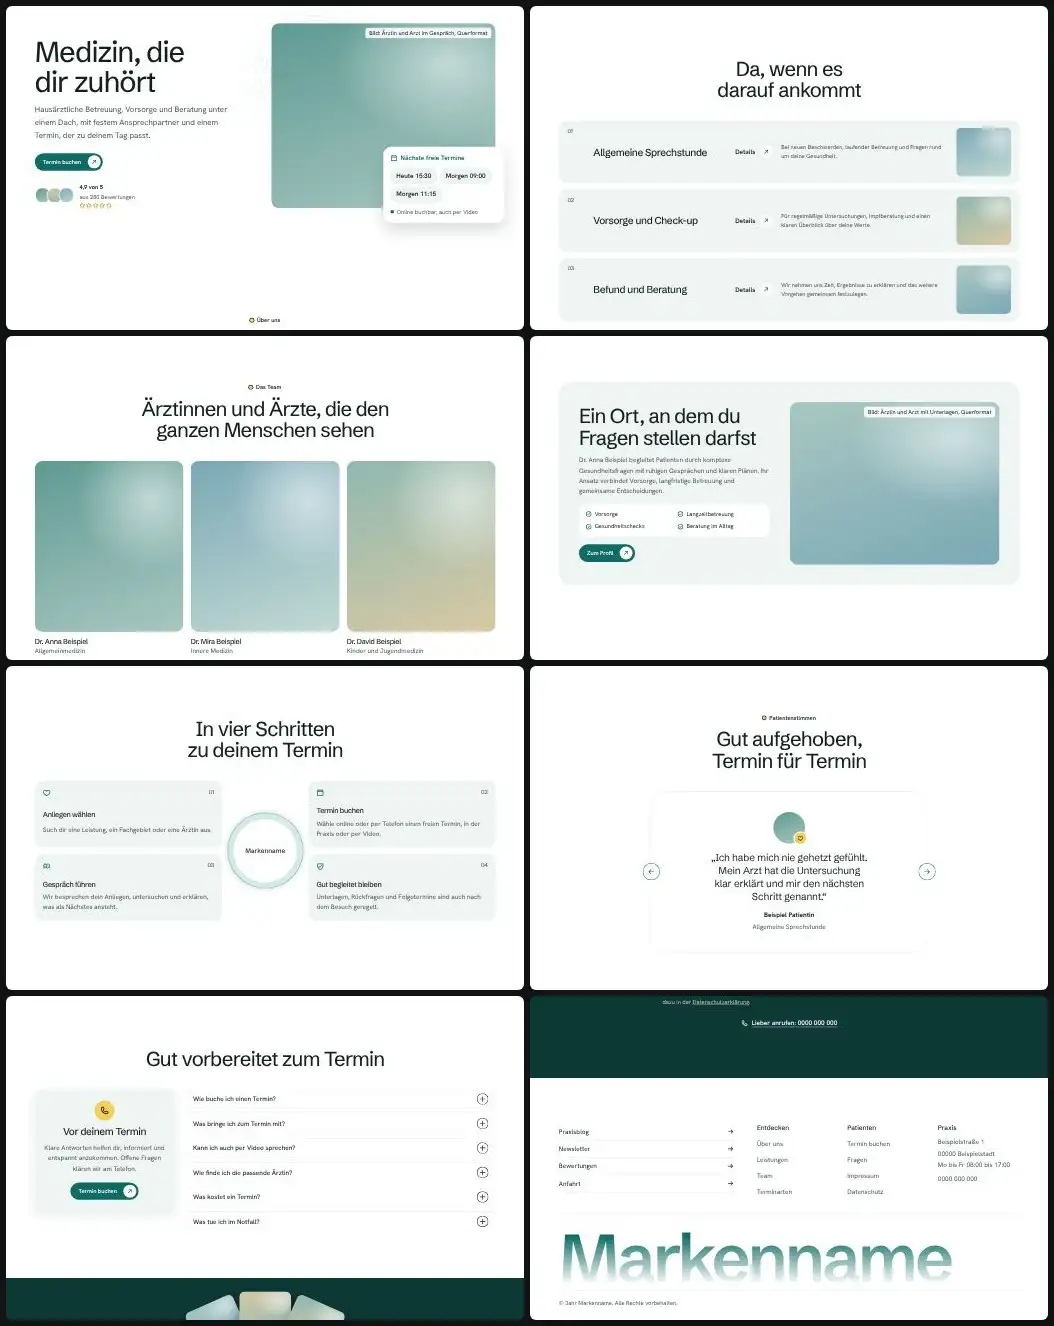
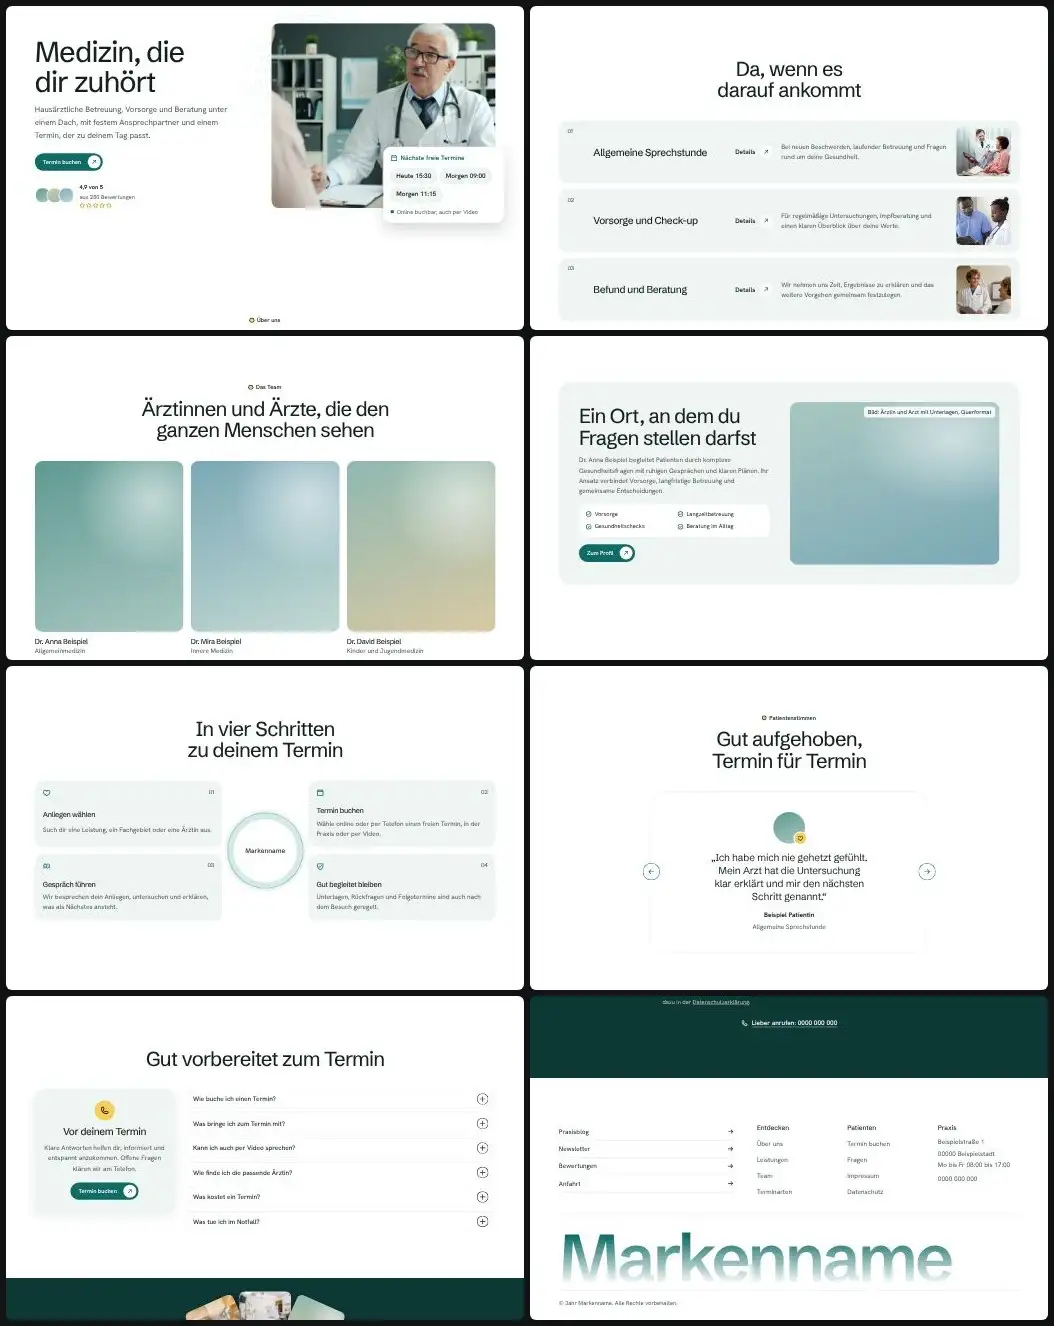
Bibliothek t60: Beispielfotos (Unsplash) eingebaut, Vorschaubilder neu erzeugt
Claude-Session: https://claude.ai/code/session_01DoGuL1bwF3ewggMgZ4Cpvd

diff --git a/skills/webdesign-conversion/assets/vorlagen/bibliothek/t60/index.html b/skills/webdesign-conversion/assets/vorlagen/bibliothek/t60/index.html
@@ -76,7 +76,7 @@
       </div>
       <div class="held__buehne" data-zeig="skala">
         <div class="held__ringe" aria-hidden="true"></div>
-        <div class="bild held__bild bild--a" data-platzhalter="Bild: Ärztin und Arzt im Gespräch, Querformat" role="img" aria-label="Platzhalter für ein Foto von zwei Ärzten im Gespräch"></div>
+        <div class="bild held__bild bild--a"><img src="bilder/praxis-arzt-gespraech.webp" width="1600" height="900" alt="Ein Arzt im Gespräch mit einer Patientin am Schreibtisch" loading="lazy" decoding="async"></div>
         <aside class="terminkarte" aria-label="Nächste freie Termine" data-beispiel>
           <p class="terminkarte__titel"><svg width="20" height="20" aria-hidden="true" focusable="false"><use href="#i-calendar-blank"/></svg>Nächste freie Termine</p>
           <ul class="terminkarte__zeiten">
@@ -99,7 +99,7 @@
     </div>
     <div class="buehne" data-fortschritt>
       <div class="buehne__haftet">
-        <div class="bild buehne__bild bild--b" data-platzhalter="Bild: Gespräch im Behandlungszimmer, Querformat" role="img" aria-label="Platzhalter für ein Foto aus einem Gespräch im Behandlungszimmer"></div>
+        <div class="bild buehne__bild bild--b"><img src="bilder/praxis-sprechstunde-sofa.webp" width="1000" height="563" alt="Zwei Frauen im Gespräch auf einem hellen Sofa" loading="lazy" decoding="async"></div>
         <a class="knopf knopf--mit-pfeil buehne__knopf" href="#team"><span>Mehr über uns</span><span class="pfeilscheibe" aria-hidden="true"><svg width="18" height="18" focusable="false"><use href="#i-arrow-up-right"/></svg></span></a>
       </div>
     </div>
@@ -118,7 +118,7 @@
             <h3 class="zeile__titel">Allgemeine Sprechstunde</h3>
             <a class="zeile__mehr" href="#termin"><span>Details</span><span class="pfeilscheibe pfeilscheibe--hell" aria-hidden="true"><svg width="18" height="18" focusable="false"><use href="#i-arrow-up-right"/></svg></span></a>
             <p class="zeile__text">Bei neuen Beschwerden, laufender Betreuung und Fragen rund um deine Gesundheit.</p>
-            <div class="bild zeile__bild bild--c" data-platzhalter="Bild: Sprechstunde" role="img" aria-label="Platzhalter für ein Foto aus der Sprechstunde"></div>
+            <div class="bild zeile__bild bild--c"><img src="bilder/praxis-arzt-bett.webp" width="1000" height="667" alt="Ein Arzt spricht mit einer Patientin am Krankenbett" loading="lazy" decoding="async"></div>
           </article>
         </li>
         <li data-zeig>
@@ -127,7 +127,7 @@
             <h3 class="zeile__titel">Vorsorge und Check-up</h3>
             <a class="zeile__mehr" href="#termin"><span>Details</span><span class="pfeilscheibe pfeilscheibe--hell" aria-hidden="true"><svg width="18" height="18" focusable="false"><use href="#i-arrow-up-right"/></svg></span></a>
             <p class="zeile__text">Für regelmäßige Untersuchungen, Impfberatung und einen klaren Überblick über deine Werte.</p>
-            <div class="bild zeile__bild bild--d" data-platzhalter="Bild: Untersuchung" role="img" aria-label="Platzhalter für ein Foto von einer Untersuchung"></div>
+            <div class="bild zeile__bild bild--d"><img src="bilder/praxis-team-tablet.webp" width="1000" height="667" alt="Zwei Fachkräfte im Kittel schauen gemeinsam auf ein Tablet" loading="lazy" decoding="async"></div>
           </article>
         </li>
         <li data-zeig>
@@ -136,7 +136,7 @@
             <h3 class="zeile__titel">Befund und Beratung</h3>
             <a class="zeile__mehr" href="#termin"><span>Details</span><span class="pfeilscheibe pfeilscheibe--hell" aria-hidden="true"><svg width="18" height="18" focusable="false"><use href="#i-arrow-up-right"/></svg></span></a>
             <p class="zeile__text">Wir nehmen uns Zeit, Ergebnisse zu erklären und das weitere Vorgehen gemeinsam festzulegen.</p>
-            <div class="bild zeile__bild bild--e" data-platzhalter="Bild: Befundgespräch" role="img" aria-label="Platzhalter für ein Foto von einem Befundgespräch"></div>
+            <div class="bild zeile__bild bild--e"><img src="bilder/praxis-aerztin-patientin.webp" width="1000" height="652" alt="Eine Ärztin im weißen Kittel lächelt im Gespräch mit einer Patientin" loading="lazy" decoding="async"></div>
           </article>
         </li>
       </ul>
@@ -189,7 +189,7 @@
         <h2 id="h-spot" data-zeig>Fachwissen mit menschlicher Seite</h2>
       </header>
       <div class="spot__raster">
-        <div class="bild spot__bild bild--b" data-zeig="links" data-platzhalter="Bild: Team bespricht einen Fall, Querformat" role="img" aria-label="Platzhalter für ein Foto vom Praxisteam"></div>
+        <div class="bild spot__bild bild--b" data-zeig="links"><img src="bilder/praxis-aerzte-tablet.webp" width="1000" height="563" alt="Ein Ärztepaar bespricht einen Fall an einem Tablet" loading="lazy" decoding="async"></div>
         <div class="spot__text" data-staffel>
           <p data-zeig>Unsere Abläufe sind darauf ausgelegt, Verwirrung zu vermeiden, Absprachen zu bündeln und dir Sicherheit bei Terminen und Rezepten zu geben.</p>
           <ul class="haken" data-zeig>
@@ -252,7 +252,7 @@
         </div>
         <p data-zeig>Praxis und Rezeption arbeiten so zusammen, dass du nicht zwischen Stellen vermitteln musst. Das spart Wege, Wartezeit und Rückfragen.</p>
       </div>
-      <div class="bild ort__bild bild--c" data-platzhalter="Bild: Rezeption und Wartebereich, Querformat" role="img" aria-label="Platzhalter für ein Foto vom Empfangsbereich der Praxis" data-zeig="skala"><div class="ort__tiefe" data-parallax="0.07" aria-hidden="true"></div></div>
+      <div class="bild ort__bild bild--c" data-zeig="skala"><img src="bilder/praxis-rezeption.webp" width="1000" height="667" alt="Empfangstheke mit Barhockern in einem ruhigen Praxisraum" loading="lazy" decoding="async"><div class="ort__tiefe" data-parallax="0.07" aria-hidden="true"></div></div>
       <p class="mitte mitte--knopf"><a class="knopf knopf--dunkel knopf--mit-pfeil" href="#ablauf"><span>Ablauf ansehen</span><span class="pfeilscheibe pfeilscheibe--hell" aria-hidden="true"><svg width="18" height="18" focusable="false"><use href="#i-arrow-up-right"/></svg></span></a></p>
     </div>
   </section>
@@ -369,10 +369,10 @@
   <!-- 13. Termin: Fächer aus gekippten Bildkarten, Rückrufformular -->
   <section class="termin" id="termin" aria-labelledby="h-termin">
     <div class="termin__fach" data-zeig aria-hidden="true">
-      <div class="bild bild--a" data-platzhalter="Bild 1"></div>
-      <div class="bild bild--c" data-platzhalter="Bild 2"></div>
-      <div class="bild bild--e" data-platzhalter="Bild 3"></div>
-      <div class="bild bild--b" data-platzhalter="Bild 4"></div>
+      <div class="bild bild--a"><img src="bilder/praxis-heller-raum.webp" width="1000" height="667" alt="Heller Raum mit Sonnenlicht und Sitzmöbeln" loading="lazy" decoding="async"></div>
+      <div class="bild bild--c"><img src="bilder/praxis-wartebereich-gelb.webp" width="1000" height="667" alt="Wartebereich mit gelbem Sofa und Schreibtisch im Hintergrund" loading="lazy" decoding="async"></div>
+      <div class="bild bild--e"><img src="bilder/praxis-empfang-holz.webp" width="1000" height="667" alt="Empfangsbereich mit Holzverkleidung und Theke" loading="lazy" decoding="async"></div>
+      <div class="bild bild--b"><img src="bilder/praxis-behandlungsraum.webp" width="1000" height="667" alt="Behandlungsraum mit Liege und medizinischen Geräten" loading="lazy" decoding="async"></div>
       <div class="bild bild--d" data-platzhalter="Bild 5"></div>
       <div class="bild bild--a" data-platzhalter="Bild 6"></div>
       <div class="bild bild--c" data-platzhalter="Bild 7"></div>

diff --git a/skills/webdesign-conversion/assets/vorlagen/bibliothek/t60/BILDER.md b/skills/webdesign-conversion/assets/vorlagen/bibliothek/t60/BILDER.md
@@ -1,0 +1,30 @@
+# Bilder t60
+
+Alle Fotos von Unsplash, abgerufen am 25.11.2026. Titel und Lizenz stehen so auf der Seite des Fotos (Titel von Unsplash automatisch vergeben), als Fotograf ist das Unsplash Profil angegeben, weil die Seite den Namen nur als Profillink zeigte. Lizenz ist jeweils die Unsplash Lizenz.
+
+| Datei | Platz | Foto Titel | Fotograf (Profil) | Seite | Lizenz | Abruf |
+|---|---|---|---|---|---|---|
+| praxis-arzt-gespraech.webp.webp | Held, Arzt im Gespräch | Arzt spricht mit Patient in einer Praxis | @silverkblack | https://unsplash.com/photos/IDM3n0LfNCY | Unsplash Lizenz | 25.11.2026 |
+| praxis-sprechstunde-sofa.webp.webp | Bühne, Gespräch | Zwei Frauen, die sich in einer modernen Büroumgebung unterhalten | @silverkblack | https://unsplash.com/photos/QxkvMblcaJ0 | Unsplash Lizenz | 25.11.2026 |
+| praxis-arzt-bett.webp.webp | Zeile Sprechstunde | Ein Arzt im weißen Kittel, der mit einem Patienten im Krankenhausbett spricht | @nci | https://unsplash.com/photos/DK--4VWK1tw | Unsplash Lizenz | 25.11.2026 |
+| praxis-team-tablet.webp.webp | Zeile Untersuchung | Ein Arzt und ein Patient betrachten eine Tablette | @nappystudio | https://unsplash.com/photos/DbCfSrTnflA | Unsplash Lizenz | 25.11.2026 |
+| praxis-aerztin-patientin.webp.webp | Zeile Befundgespräch | Ein lächelnder Arzt im weißen Kittel, der mit einem Patienten in einer Klinik spricht | @nci | https://unsplash.com/photos/tl447mekwuQ | Unsplash Lizenz | 25.11.2026 |
+| praxis-aerzte-tablet.webp.webp | Spot, Team | Zwei Ärzte, die gemeinsam eine Tablette betrachten | @silverkblack | https://unsplash.com/photos/2kopEHjST-g | Unsplash Lizenz | 25.11.2026 |
+| praxis-rezeption.webp.webp | Ort, Rezeption | Eine Küche mit Theke, Stühlen und Bar | @lisaanna195 | https://unsplash.com/photos/oLtNPzG0_uU | Unsplash Lizenz | 25.11.2026 |
+| praxis-heller-raum.webp.webp | Galerie 1 | ein Raum mit vielen Stühlen und Tischen | @jiranfamily | https://unsplash.com/photos/SNJKJqKL8ps | Unsplash Lizenz | 25.11.2026 |
+| praxis-wartebereich-gelb.webp.webp | Galerie 2 | eine gelbe Couch in einem Wohnzimmer neben einem Schreibtisch | @musemindagency | https://unsplash.com/photos/BDw9Sp6FBaw | Unsplash Lizenz | 25.11.2026 |
+| praxis-empfang-holz.webp.webp | Galerie 3 | braun und weiß gestrichenes Wohnzimmer | @paris_interieurs | https://unsplash.com/photos/YhJkERWHFnU | Unsplash Lizenz | 25.11.2026 |
+| praxis-behandlungsraum.webp.webp | Galerie 4 | ein Krankenhauszimmer mit medizinischen Geräten | @karibjorn | https://unsplash.com/photos/yJsMOVwazRU | Unsplash Lizenz | 25.11.2026 |
+
+## Hinweise
+
+* Alle Fotos zeigen Stockpersonen als Atmosphäre, keine echten Ärzte oder Patienten. Vor Abgabe durch eigene Praxisfotos ersetzen.
+* Keine Heil oder Erfolgsversprechen im Bildtext.
+* Unsplash Titel passen teils nicht zum Bild, der Alt Text beschreibt, was zu sehen ist.
+* Das Bild vom Krankenbett und der Behandlungsraum wirken klinisch, für eine Hausarztpraxis eher austauschen.
+
+## Offen
+
+* 3 Porträts Team (Ärztin, Ärztin, Arzt)
+* Profilbild Ärztin und Arzt mit Unterlagen
+* Galerie 5, 6 und 7 (Bild 5 bis Bild 7)
